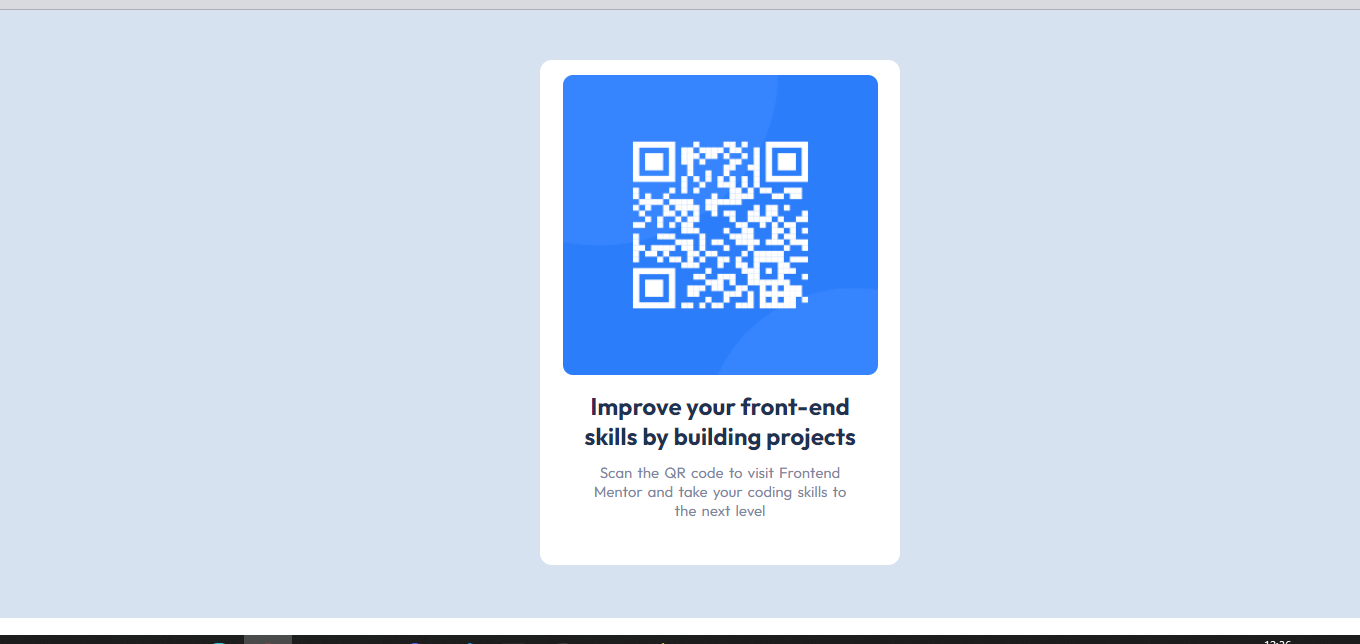
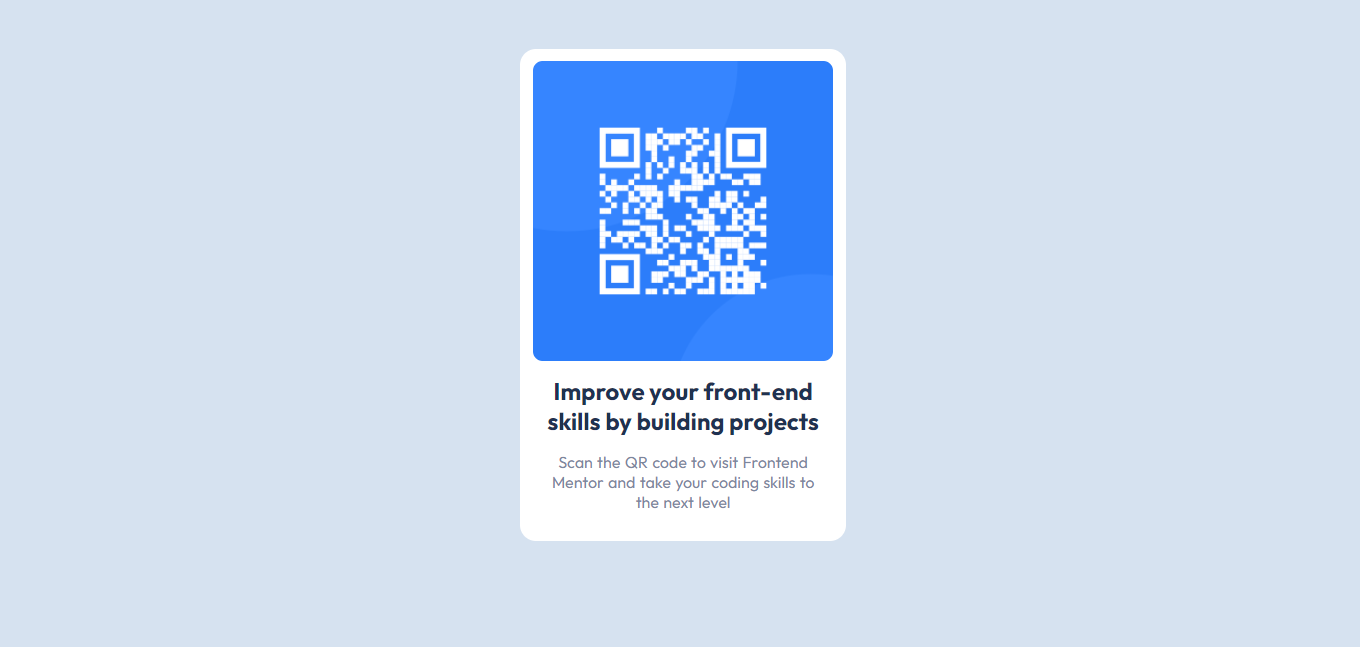
Updates

Changed region(s): [[0.3706, 0.0621, 0.6794, 0.9006], [0.0, 0.9627, 1.0, 1.0]]

diff --git a/index.html b/index.html
@@ -1,23 +1,31 @@
 <!DOCTYPE html>
 <html lang="en">
-<head>
-    <meta charset="UTF-8">
-    <meta http-equiv="X-UA-Compatible" content="IE=edge">
-    <meta name="viewport" content="width=device-width, initial-scale=1.0">
+  <head>
+    <meta charset="UTF-8" />
+    <meta http-equiv="X-UA-Compatible" content="IE=edge" />
+    <meta name="viewport" content="width=device-width, initial-scale=1.0" />
     <title>QR code Component</title>
-    <link rel="stylesheet" href="index.css">
-    <link href="https://fonts.googleapis.com/css2?family=Outfit:wght@400;700&display=swap" rel="stylesheet">
-</head>
-<body>
-    <main class="container">
+    <link rel="stylesheet" href="index.css" />
+    <link
+      href="https://fonts.googleapis.com/css2?family=Outfit:wght@400;700&display=swap"
+      rel="stylesheet"
+    />
+  </head>
+  <body>
+    <main>
+      <div class="container">
         <div class="image">
-            <img src="image-qr-code.png" alt="image of qr code">
+          <img src="image-qr-code.png" alt="image of qr code" />
         </div>
 
         <div class="about">
-            <h2>Improve your front-end skills by building projects </h2>
-            <p>Scan the QR code to visit Frontend Mentor and take your coding skills to the next level </p>
+          <h2>Improve your front-end skills by building projects</h2>
+          <p>
+            Scan the QR code to visit Frontend Mentor and take your coding
+            skills to the next level
+          </p>
         </div>
+      </div>
     </main>
-</body>
+  </body>
 </html>

diff --git a/index.css b/index.css
@@ -1,41 +1,51 @@
 body{
-    width: 1440px;
     background-color: hsl(212, 45%, 89%);
     font-family: 'Outfit', sans-serif;
-    margin: 0;
-    padding: 0;
+    display: flex;
+    align-items: center;
+    justify-content: center;
+    min-height: 90vh;
+}
+
+main{
+    width: 100%;
 }
 
 .container{
     display: flex;
     flex-direction: column;
-    text-align: center;
     align-items: center;
-    height: auto;
     width: 20%;
-    margin: 9.3rem auto;
+    min-width: 300px;
+    margin: 0 auto;
     background-color: white;
-    padding: 1.1rem ;
-    border-radius: 1.2rem;   
+    padding: .8rem ;
+    border-radius: 1rem;   
 }
 
 .image img{
     display: block;
     max-width: 100%;
     height: auto;
-    border-radius: 1.2rem;
+    border-radius: .6rem;
+}
+
+.about{
+    text-align: center;
 }
 
 .about h2{
     color:hsl(218, 44%, 22%);
     margin-bottom: 0;
     padding: .5rem;
+    padding-top: 0;
     margin-top: .9rem;
 }
 
 .about p{
     color:hsl(220, 15%, 55%);
     padding: 1rem;
+    padding-top: .5rem;
     word-spacing: 1px;
     margin-top: 0;
     margin-bottom: 0;
